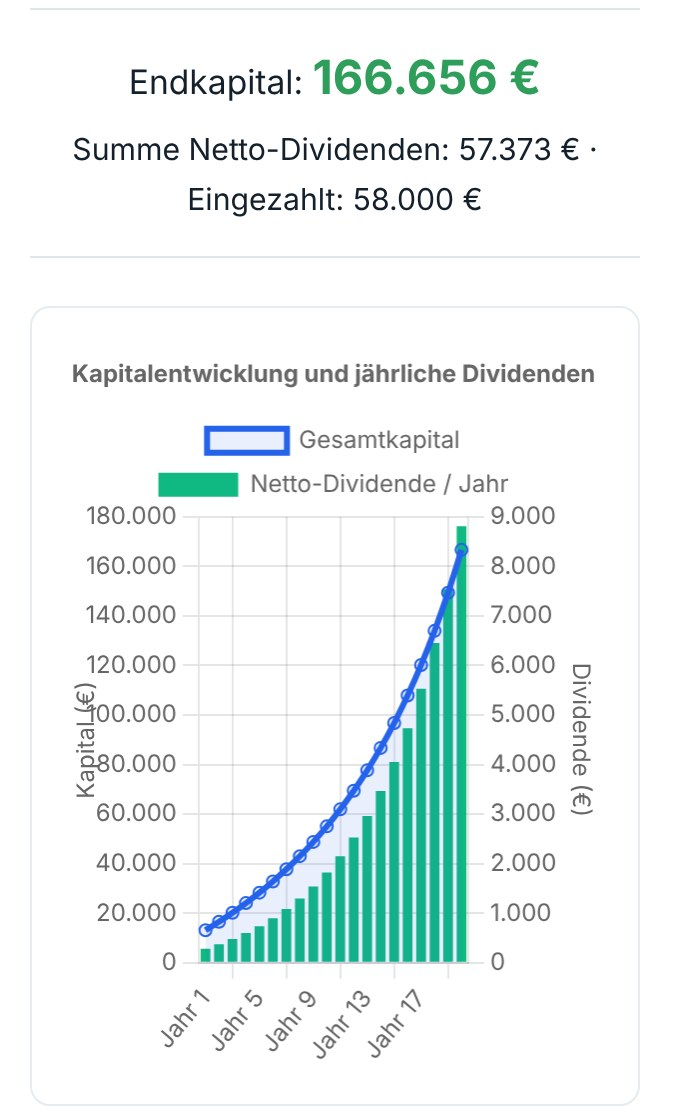
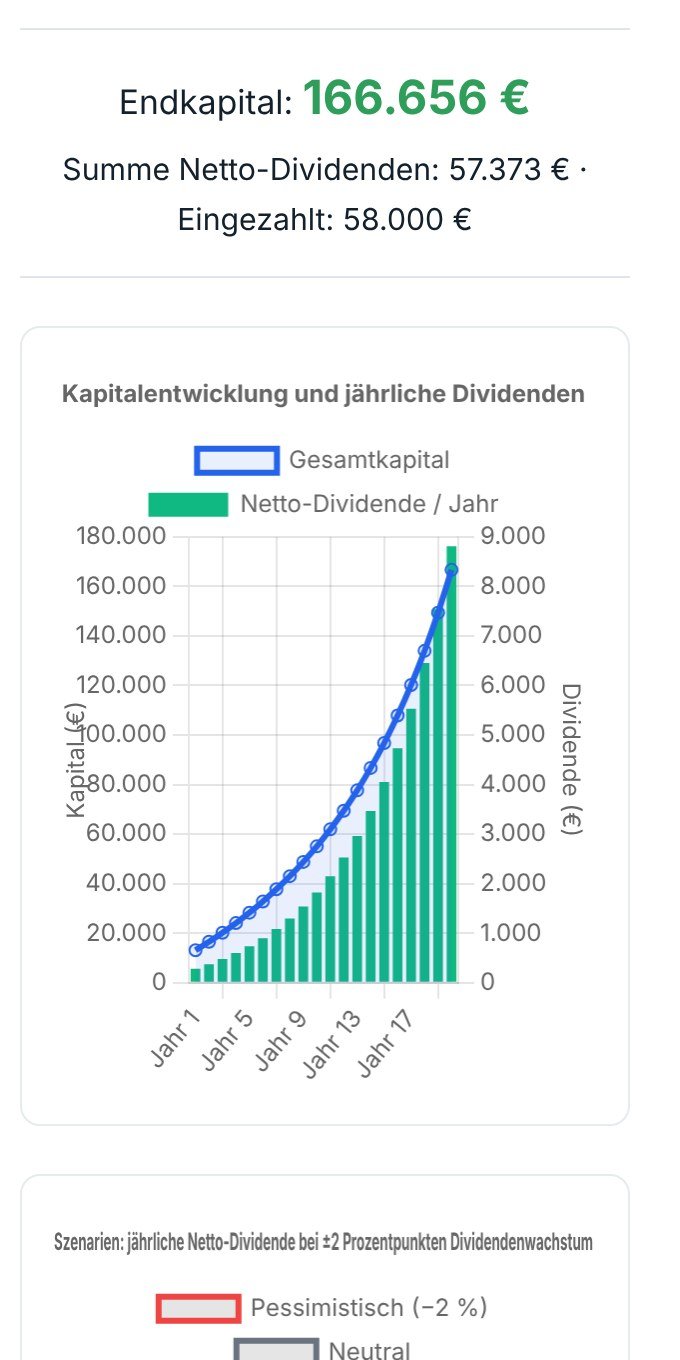
Vorschau B: Handy-Screenshot passgenau, ohne Drehung
Claude-Session: https://claude.ai/code/session_019XvbgBLukfMhVVHAfy3Xu4

diff --git a/vorschau/start-b.html b/vorschau/start-b.html
@@ -15,9 +15,9 @@ p.sub{font-size:17px;color:#4a5a51;max-width:560px;margin:0 0 20px;position:rela
 </style></head><body><div class="bar">VORSCHAU Vorschlag B – Handy und Desktop</div><header>Dividenden-Rechner <b>Aktien-Hub</b></header><style>
 .hero{display:grid;gap:8px}
 .dev{position:relative;height:330px;margin-top:10px}
-.lap{position:absolute;left:0;top:30px;width:86%;aspect-ratio:16/10;background:#fff;border:8px solid #1d2a23;border-radius:12px 12px 4px 4px;box-shadow:0 20px 40px #0002;overflow:hidden}.lap img,.ph img{display:block;width:100%;height:100%;object-fit:cover;object-position:top}
+.lap{position:absolute;left:0;top:30px;width:86%;aspect-ratio:16/10;background:#fff;border:8px solid #1d2a23;border-radius:12px 12px 4px 4px;box-shadow:0 20px 40px #0002;overflow:hidden}.lap img,.ph img{display:block;width:100%;height:100%;object-fit:cover;object-position:center top}
 .lap:after{content:"";position:absolute;left:-8%;right:-8%;bottom:-16px;height:8px;background:#c9d1cc;border-radius:0 0 12px 12px}
-.ph{position:absolute;right:2%;top:0;width:34%;aspect-ratio:9/18;background:#fff;border:6px solid #1d2a23;border-radius:20px;box-shadow:0 20px 40px #0003;overflow:hidden;transform:rotate(3deg)}
+.ph{position:absolute;right:2%;top:0;width:34%;aspect-ratio:9/18;background:#fff;border:6px solid #1d2a23;border-radius:20px;box-shadow:0 20px 40px #0003;overflow:hidden;transform:none}
 .mini{display:flex;align-items:flex-end;gap:3px;height:60%;margin-top:8px}
 .mini i{flex:1;background:#cfeadb;border-radius:2px 2px 0 0;animation:g 1.2s ease-out both}.mini i:last-child{background:var(--g2)}
 @keyframes g{from{height:0}}
